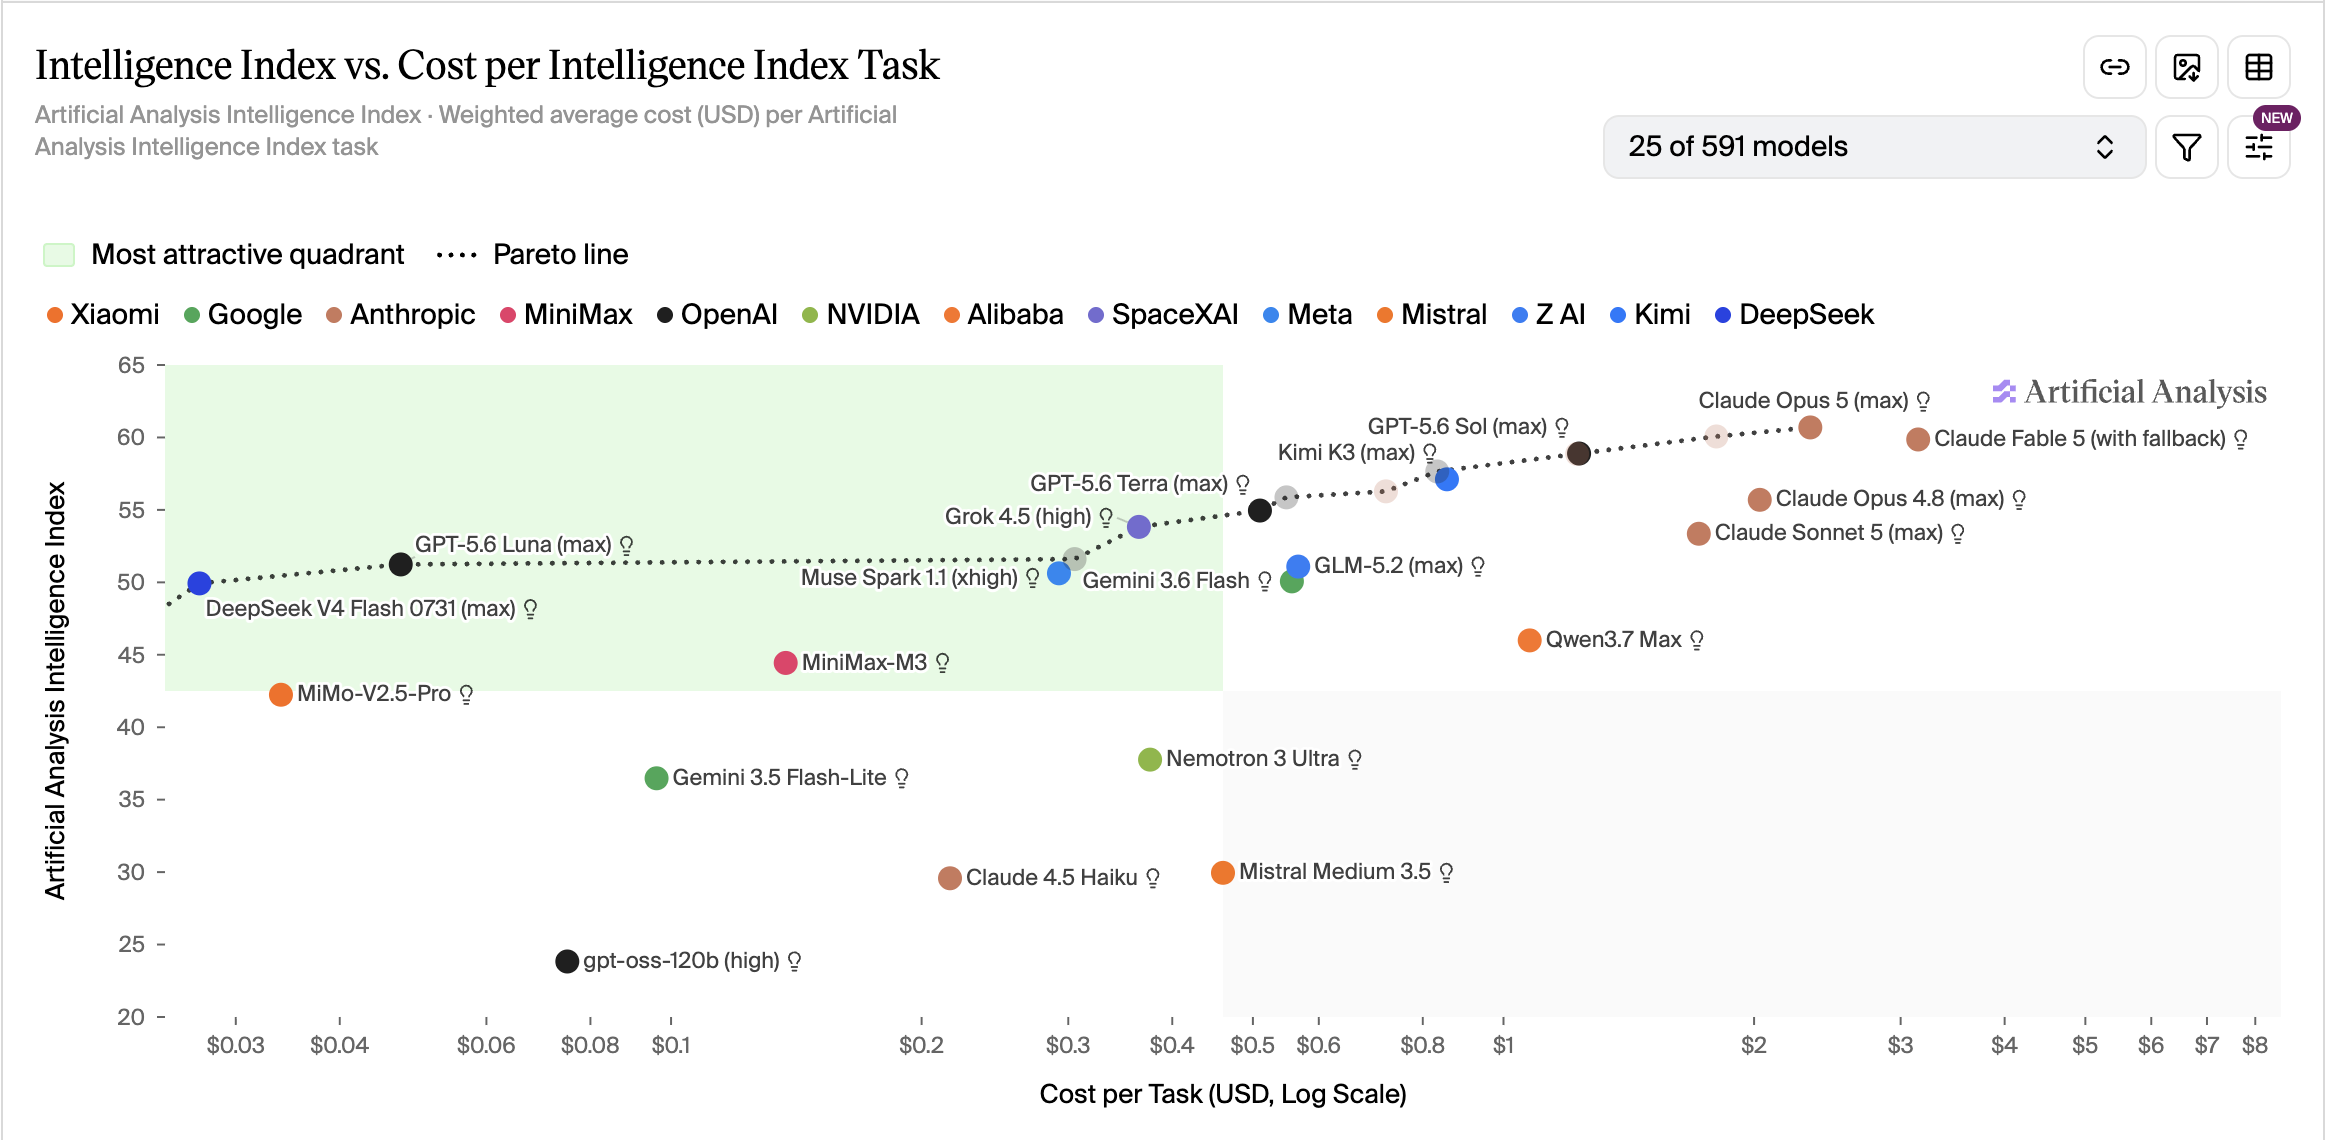
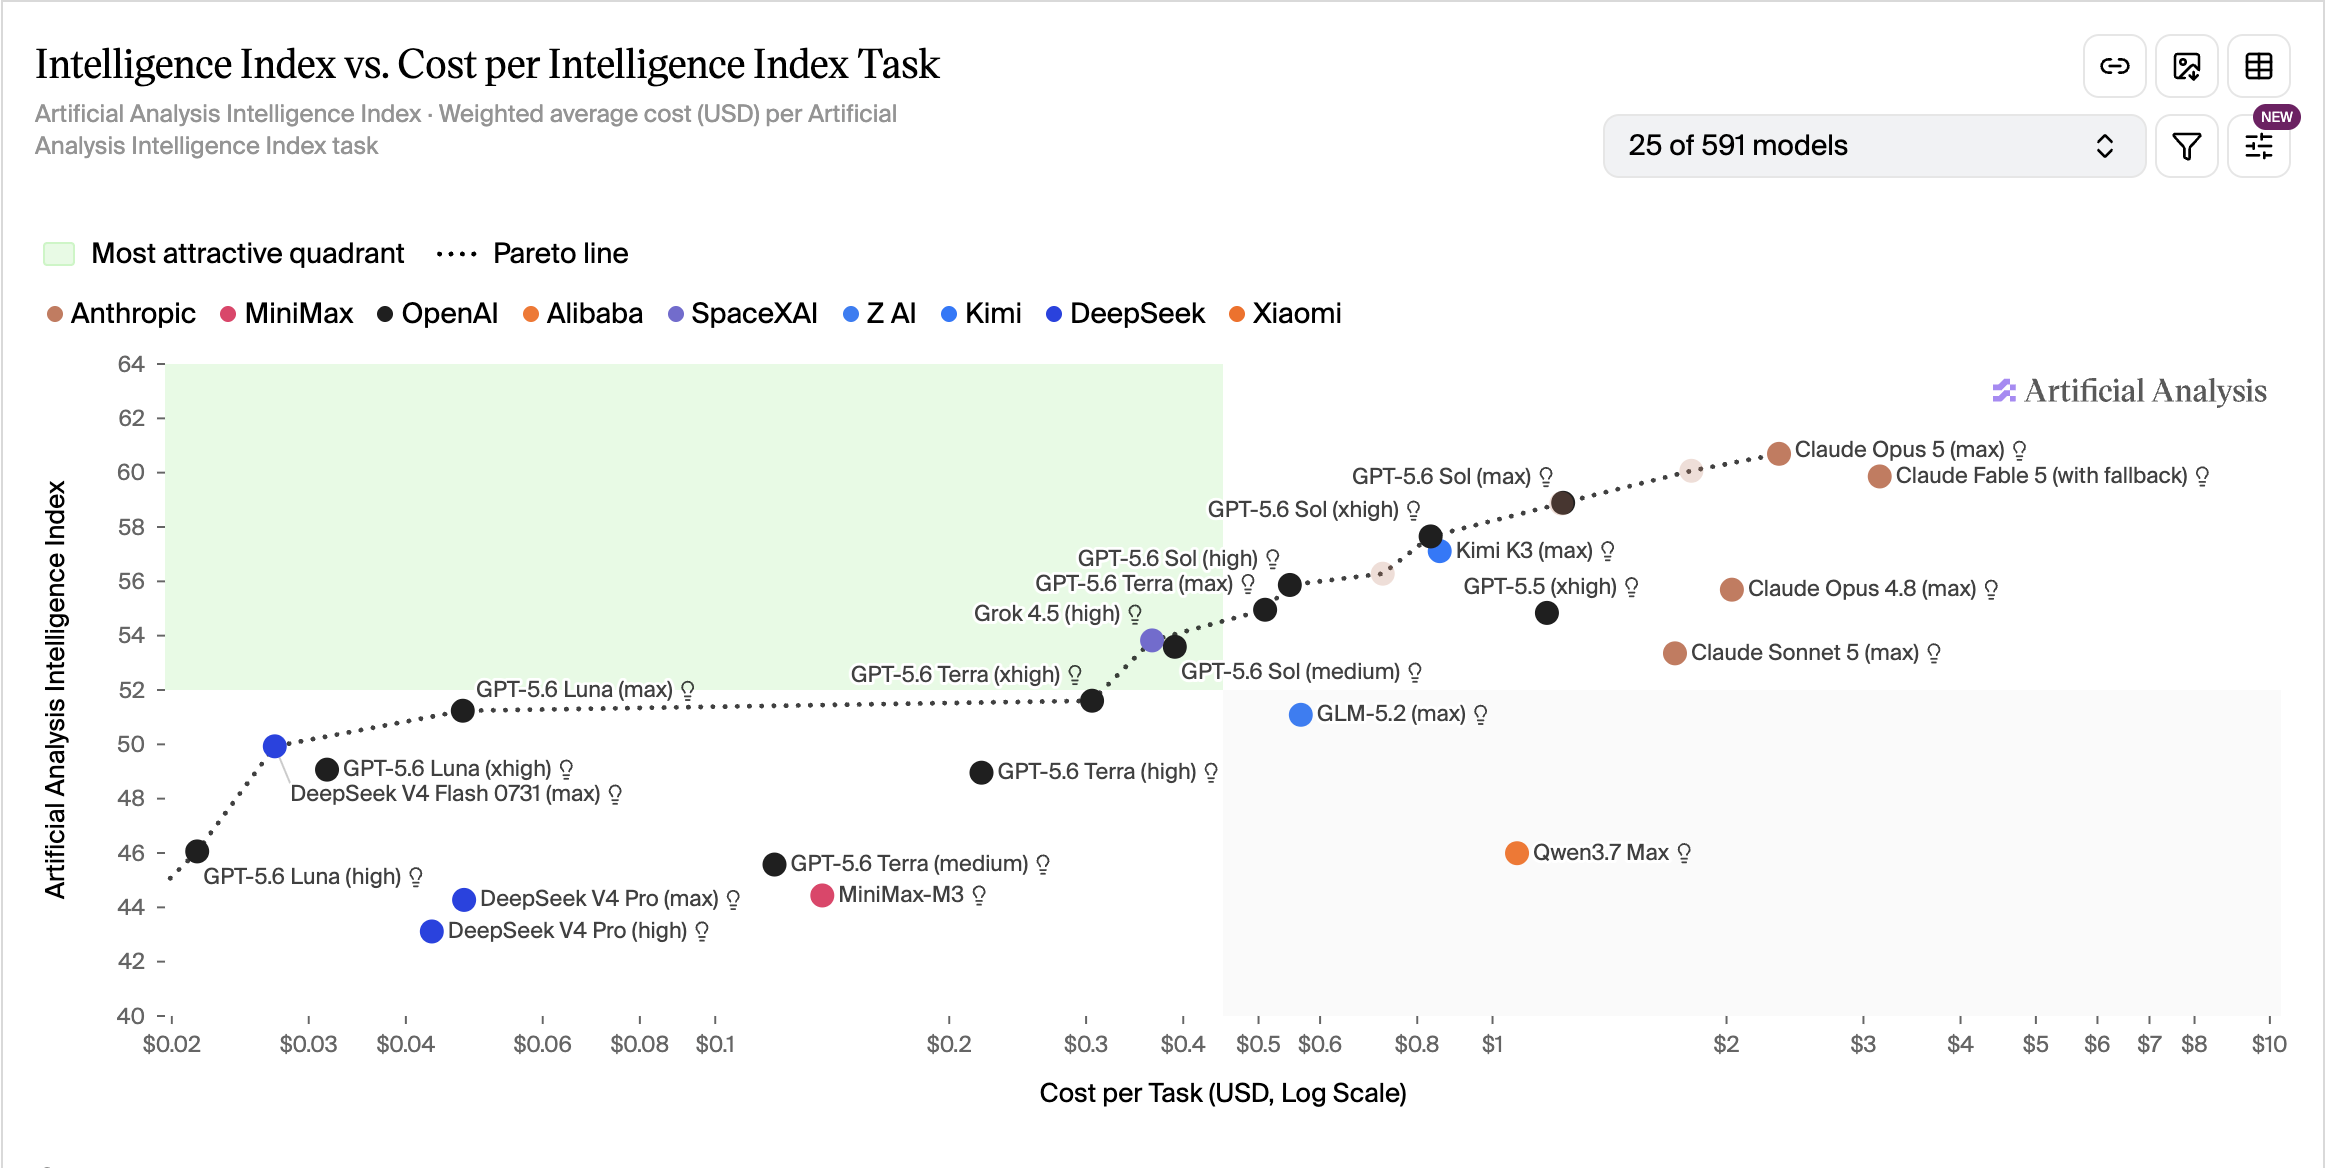
docs(slides): refresh benchmark slide copy (#59)
- update the Artificial Analysis slide with revised cost and model comparisons
- replace the associated image asset with the refreshed chart
- ignore .worktrees in the repository config

diff --git a/Cheap-LLMs-Meetup-Aug-2026/slides/slides.md b/Cheap-LLMs-Meetup-Aug-2026/slides/slides.md
@@ -71,9 +71,9 @@ Promise: leave with a $0 stack, a $10 stack, or a smarter $200 stack.
 
 Artificial Analysis, Aug 2026 <span class="opacity-60 text-sm">(click chart to zoom)</span>
 
-- The Pareto line runs **DeepSeek V4 Flash** (50 @ ~$0.03) to **Claude Opus 5** (~60 @ ~$2.30)
-- **~80x in cost buys ~10 index points**
-- Kimi K3: ~57 at ~$0.80 · GPT-5.6 Sol (max): 59 at ~$1.20
+- The Pareto line runs **DeepSeek V4 Flash** (50 @ ~$0.03) to **Claude Opus 5** (~60 @ ~$2.30) — **~80x for ~10 points**
+- DeepSeek V4 Flash outscores **GPT-5.6 Terra (high)** (49 @ ~$0.22) at **~1/8 the price**
+- Kimi K3: ~57 at ~$0.85 · GPT-5.6 Sol (max): ~59 at ~$1.30
 - Same model, different effort = 5–10x cost spread → **`variant` is a budget knob too**
 
 </div>
